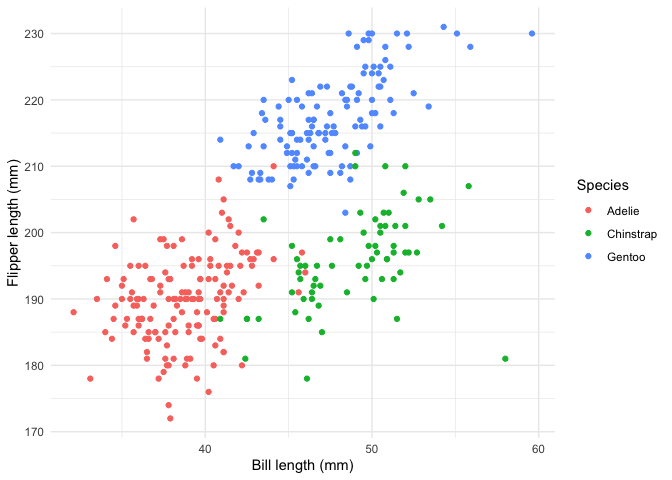
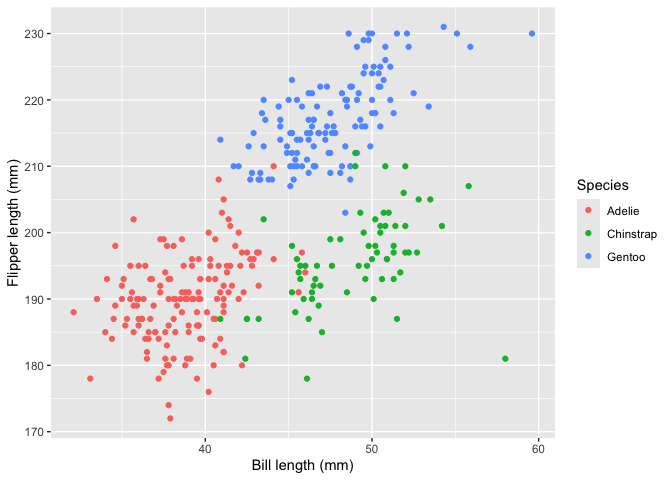
Problems 1 and 2

diff --git a/p8105_hw1_js7161.md b/p8105_hw1_js7161.md
@@ -13,18 +13,17 @@ library(ggplot2)
 data("penguins", package = "palmerpenguins")
 ```
 
-The penguins dataset contains measurements of adult penguins near Palmer
-Station in Antarctica. It has 344 rows and 8 columns.
+The penguins dataset has 344 rows and 8 columns. It contains data on
+penguins near Palmer Station in Antarctica.
 
 The species are Adelie, Chinstrap, Gentoo. The islands are Biscoe,
 Dream, Torgersen. Other variables include bill_length_mm, bill_depth_mm,
 flipper_length_mm, body_mass_g, sex, and year. Bill and flipper
-measurements are in millimeters, and body mass is in grams. Sex includes
-female and male, with some missing values. The study years range from
-2007 to 2009.
+measurements are in millimeters. Body mass is in grams. Sex includes
+female and male, with some missing values. The years range from 2007 to
+2009.
 
-The mean flipper length is 200.92 mm. Missing values are excluded from
-this calculation.
+The mean flipper length is 200.92 mm. Missing values are left out.
 
 ``` r
 penguin_plot = ggplot(
@@ -40,8 +39,7 @@ penguin_plot = ggplot(
     x = "Bill length (mm)",
     y = "Flipper length (mm)",
     color = "Species"
-  ) +
-  theme_minimal()
+  )
 
 penguin_plot
 ```
@@ -59,5 +57,83 @@ ggsave(
 )
 ```
 
-Species is a categorical variable, so the plot uses a separate color for
-each species. Rows missing either plotted measurement are omitted.
+## Problem 2
+
+``` r
+set.seed(123)
+
+variable_types = tibble(
+  normal_sample = rnorm(10),
+  is_positive = normal_sample > 0,
+  letter = letters[1:10],
+  group = factor(
+    rep(c("A", "B", "C"), length.out = 10),
+    levels = c("A", "B", "C")
+  )
+)
+
+variable_types
+```
+
+    ## # A tibble: 10 × 4
+    ##    normal_sample is_positive letter group
+    ##            <dbl> <lgl>       <chr>  <fct>
+    ##  1       -0.560  FALSE       a      A    
+    ##  2       -0.230  FALSE       b      B    
+    ##  3        1.56   TRUE        c      C    
+    ##  4        0.0705 TRUE        d      A    
+    ##  5        0.129  TRUE        e      B    
+    ##  6        1.72   TRUE        f      C    
+    ##  7        0.461  TRUE        g      A    
+    ##  8       -1.27   FALSE       h      B    
+    ##  9       -0.687  FALSE       i      C    
+    ## 10       -0.446  FALSE       j      A
+
+``` r
+mean(pull(variable_types, normal_sample))
+```
+
+    ## [1] 0.07462564
+
+``` r
+mean(pull(variable_types, is_positive))
+```
+
+    ## [1] 0.5
+
+``` r
+mean(pull(variable_types, letter))
+```
+
+    ## Warning in mean.default(pull(variable_types, letter)): argument is not numeric
+    ## or logical: returning NA
+
+    ## [1] NA
+
+``` r
+mean(pull(variable_types, group))
+```
+
+    ## Warning in mean.default(pull(variable_types, group)): argument is not numeric
+    ## or logical: returning NA
+
+    ## [1] NA
+
+The mean works for normal_sample and is_positive. For is_positive, TRUE
+counts as 1 and FALSE counts as 0. Its mean is the share of sample
+values greater than zero.
+
+The means of letter and group return NA with warnings. mean() does not
+treat text or factors as numbers.
+
+``` r
+as.numeric(pull(variable_types, is_positive))
+as.numeric(pull(variable_types, letter))
+as.numeric(pull(variable_types, group))
+```
+
+TRUE becomes 1 and FALSE becomes 0, so their mean works. The letters
+become NA with a warning because they cannot be read as numbers. The
+factor becomes 1, 2, and 3 for A, B, and C. These numbers only label
+groups, so their average is not useful. R does not use these numbers
+when taking the mean of a factor without converting it first.
